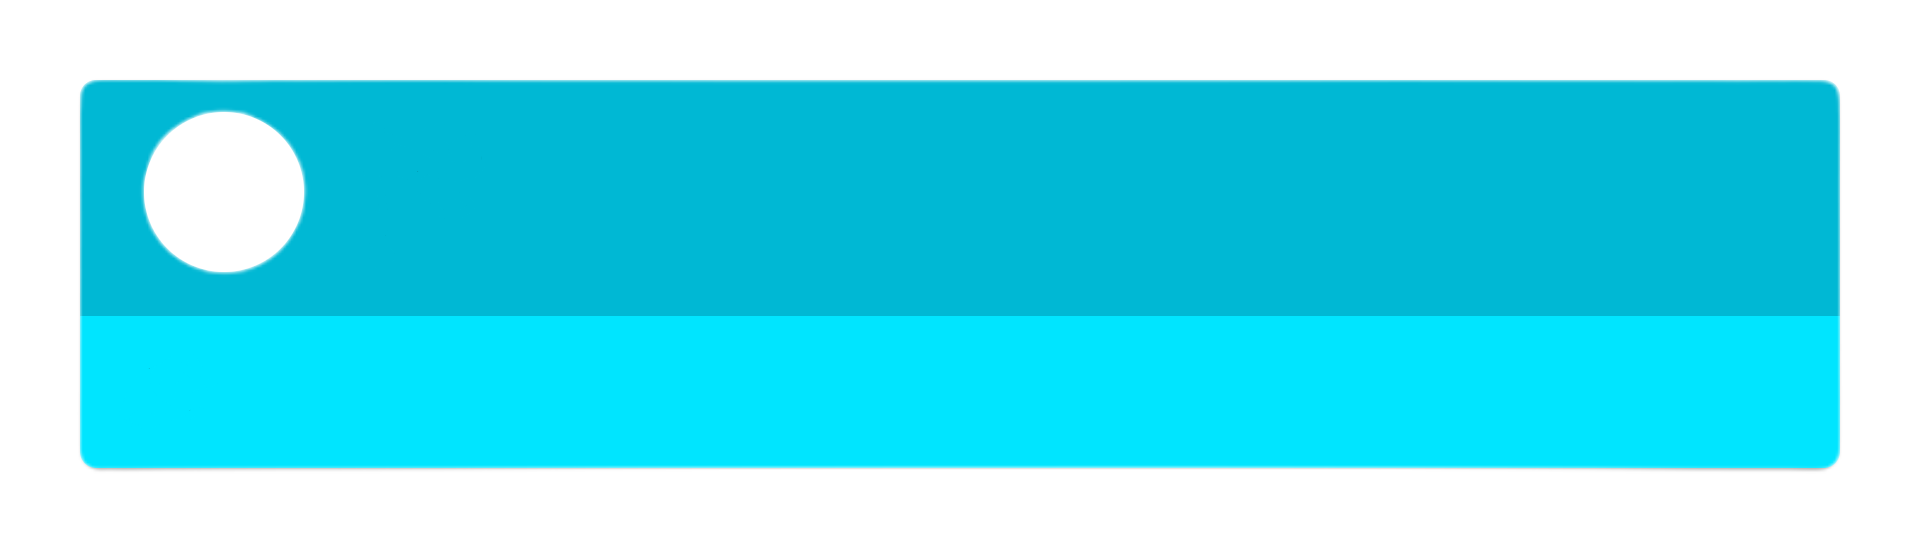
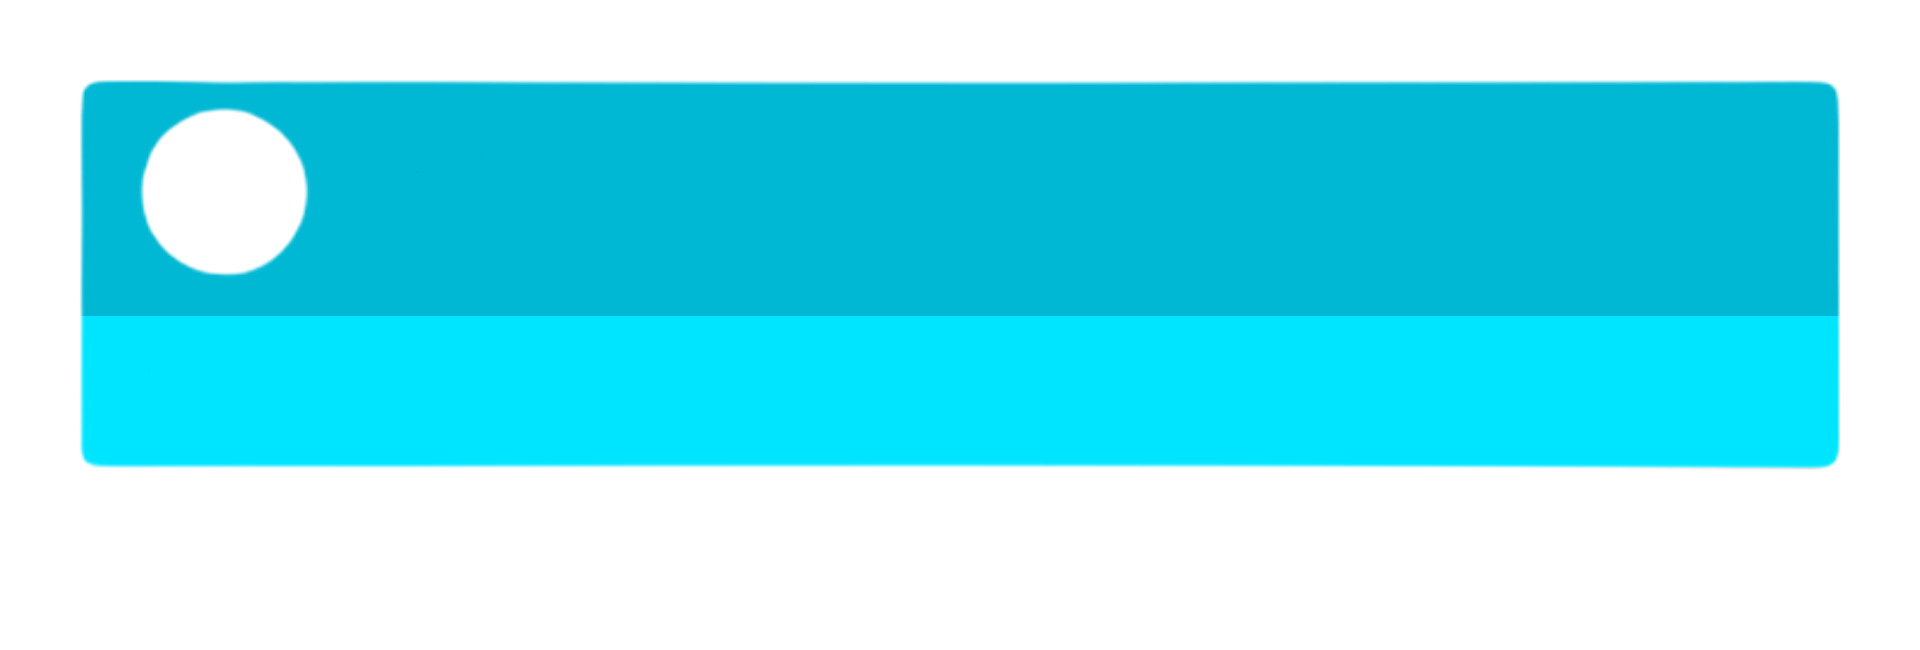
新增偽sc
完成以下功能:
給特定使用者coin
大總管顯示"感謝OO給XX的SC!" 接著sc圖
coin抽成20% 80%給XX
最多三行顯示文字，多餘的用...取代

Changed region(s): [[0.0312, 0.6825, 0.9688, 0.8686], [0.0312, 0.3412, 0.9688, 0.5894], [0.0312, 0.1241, 0.9688, 0.3102]]

diff --git a/python/bots/common/SuperChatUtil.py b/python/bots/common/SuperChatUtil.py
@@ -1,6 +1,8 @@
 import os
 import random
 import tempfile
+
+import unicodedata
 from PIL import Image, ImageDraw, ImageFont
 import re
 
@@ -58,6 +60,19 @@ class SuperChatUtil():
         mask = Image.open(SuperChatUtil._getMaskImagePath()).resize((SuperChatUtil._avatar_size, SuperChatUtil._avatar_size))
         img = avatar.resize((SuperChatUtil._avatar_size, SuperChatUtil._avatar_size))
         background.paste(img, tuple(SuperChatUtil._allOffSet["avatar"]), mask)
+
+        # see need to add text image or not
+        if sc_color != "BLUE":
+            addPage, newMsg = SuperChatUtil._resizeMsg(offset=1650, msg=sc_msg, img=background)
+            print(addPage)
+            if addPage != 0:
+                text_path = os.sep.join(
+                    (os.getcwd(), "resource", "image", "superchatMeme", f"{sc_color}_text.png"))
+                textground = Image.open(text_path)
+                if addPage == 1:
+                    background.paste(textground, (0, 390))
+                elif addPage == 2:
+                    background.paste(textground, (0, 460))
         draw = ImageDraw.Draw(background)
 
         # name
@@ -72,7 +87,7 @@ class SuperChatUtil():
 
         # msg
         if sc_color != "BLUE":
-            SuperChatUtil._pasteText(SuperChatUtil._allOffSet["text"], sc_msg, nameColor, draw)
+            SuperChatUtil._pasteText(SuperChatUtil._allOffSet["text"], newMsg, nameColor, draw)
 
         background.save(os.sep.join((tempfile.gettempdir(), "result.png")))
         return SuperChatUtil.getMemePath()
@@ -95,5 +110,24 @@ class SuperChatUtil():
                                   encoding='utf-8')
         draw.text(offset, msg, fill=tuple(color), font=font)
 
+    def _resizeMsg(offset: int, msg: str, img: Image):
+        font = ImageFont.truetype(os.sep.join((os.getcwd(), "resource", "ttf", "msjh.ttc")), size=60,
+                                  encoding='utf-8')
+        addPage = 0
+        newMsg = ""
+        for i in range(len(msg)):
+            newMsg += msg[i]
+            if ImageDraw.Draw(img).textsize(newMsg, font)[0] > offset:
+                newMsg = newMsg[:-1] + "\n" + newMsg[-1]
+                addPage += 1
+                if addPage == 3:
+                    newMsg = newMsg[:-3] + "..."
+                    addPage -= 1
+                    return addPage, newMsg
+        return addPage, newMsg
+
     def _getMaskImagePath():
         return os.sep.join((os.getcwd(), "resource", "image", "superchatMeme", "mask.png"))
+
+    def _getTextMaskPath():
+        return os.sep.join((os.getcwd(), "resource", "image", "superchatMeme", "text_mask.png"))

diff --git a/python/bots/cogs/SuperChat.py b/python/bots/cogs/SuperChat.py
@@ -7,24 +7,23 @@ from common.MemberUtil import MemberUtil
 from common.SuperChatUtil import SuperChatUtil
 from common.NicknameUtil import NicknameUtil
 
+
 class SuperChatMeme(commands.Cog):
-    # Color = [
-    #     "BLUE",
-    #     "CYAN",
-    #     "LIGHTBLUE",
-    #     "MAGENTA",
-    #     "ORANGE",
-    #     "RED",
-    #     "YELLOW",
-    #     "RANDOM"
-    # ]
+    _ColorWord = {
+        "BLUE": 0,
+        "CYAN": 150,
+        "LIGHTBLUE": 50,
+        "MAGENTA": 250,
+        "ORANGE": 225,
+        "RED": 270,
+        "YELLOW": 200,
+    }
 
     def __init__(self, bot):
         self.bot = bot
 
     @commands.group(name='sc', invoke_without_command=True)
-    async def superchat_group(self, ctx: commands.Context, sc_money: int, user: User, sc_msg: str):
-        sc_color = "RANDOM"
+    async def superchat_group(self, ctx: commands.Context, sc_money: int, user: User, sc_msg: str = ""):
         # money 0 just for test
         if sc_money == 0:
             sc_color = "RED"
@@ -32,7 +31,12 @@ class SuperChatMeme(commands.Cog):
             await ctx.send("至少15硬幣才能使用SuperChat!\n")
             return
         else:
-            SuperChatMeme._getColor(sc_money)
+            sc_color = SuperChatMeme._getColor(sc_money)
+
+        # check msg too long or not
+        if len(sc_msg) > SuperChatMeme._ColorWord[sc_color]:
+            await ctx.send(f"字數過多!請限制在{SuperChatMeme._ColorWord[sc_color]}字元內!")
+            return
 
         # check author have enough coins or not
         giver = MemberUtil.get_or_add_member(ctx.author.id)
@@ -43,7 +47,7 @@ class SuperChatMeme(commands.Cog):
 
         # transaction
         MemberUtil.add_coin(member_id=giver.id, amount=-sc_money)
-        MemberUtil.add_coin(member_id=adder, amount=sc_money)
+        MemberUtil.add_coin(member_id=adder, amount=sc_money * 0.8)
 
         # create image
         avatar = self.downloadUserAvatar(ctx.author)
@@ -90,6 +94,7 @@ class SuperChatMeme(commands.Cog):
         else:
             sc_color = "RED"
         return sc_color
+
 
 def setup(client):
     client.add_cog(SuperChatMeme(client))
